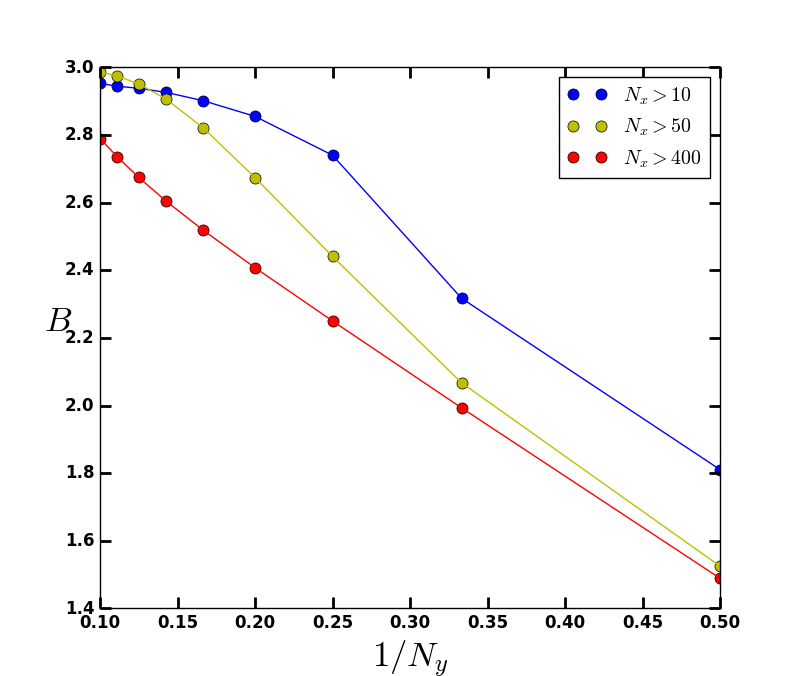
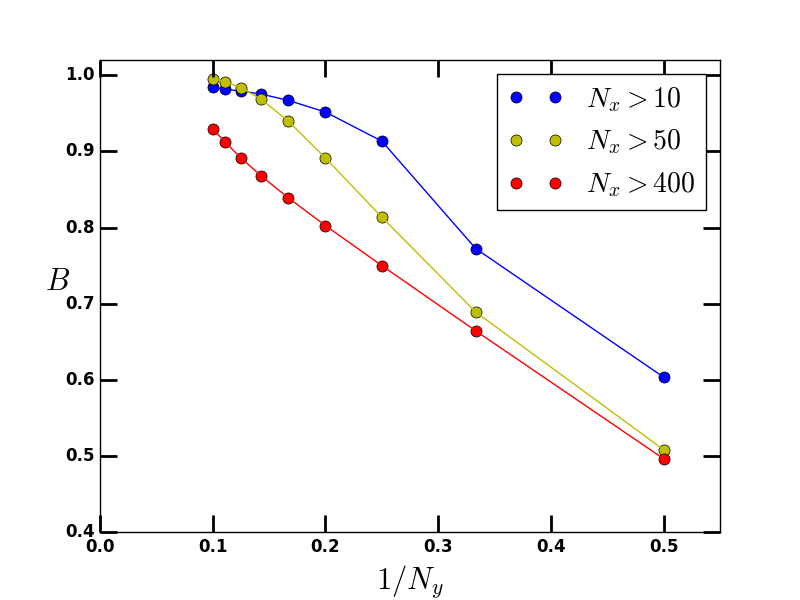
formatting figures

diff --git a/data/analysis/extra.py b/data/analysis/extra.py
@@ -18,35 +18,32 @@ x1=[]
 x2=[]
 x3=[]
 for line in data:
-  a.append(line[[1]]*3)
-  b.append(line[[2]]*3)
-  c.append(line[[3]]*3)
+  a.append(line[[1]])
+  b.append(line[[2]])
+  c.append(line[[3]])
   x1.append(1.0/line[0]**2)
   x2.append(1.0/line[0])
   x3.append(line[0]**2)
 pl.figure(1)
 pl.plot(x1,a,'ob',markersize=8,label="$N_x>10$")
 pl.plot(x1,a,'-b',markersize=8)
-pl.xlabel('$1/N_y^2$',fontsize=25)
-h=pl.ylabel('$A$',fontsize=25)
+pl.xlabel('$1/N_y^2$',fontsize=22)
+h=pl.ylabel('$A$',fontsize=22)
 h.set_rotation(0)
-pl.legend(loc='best')
 
 pl.figure(2)
 pl.plot(x2,b,'ob',markersize=8,label="$N_x>10$")
 pl.plot(x2,b,'-b',markersize=8)
-pl.xlabel('$1/N_y$',fontsize=25)
-h=pl.ylabel('$B$',fontsize=25)
+pl.xlabel('$1/N_y$',fontsize=22)
+h=pl.ylabel('$B$',fontsize=22)
 h.set_rotation(0)
-pl.legend(loc='best')
 
 pl.figure(3)
 pl.plot(x3,c,'ob',markersize=8,label="$N_x>10$")
 pl.plot(x3,c,'-b',markersize=8)
-pl.xlabel('$N_y^2$',fontsize=25)
-h=pl.ylabel('$C$',fontsize=25)
+pl.xlabel('$N_y^2$',fontsize=22)
+h=pl.ylabel('$C$',fontsize=22)
 h.set_rotation(0)
-pl.legend(loc='best')
 #########################################50
 data=pl.loadtxt('ABC50.dat')
 a=[]
@@ -56,21 +53,18 @@ x1=[]
 x2=[]
 x3=[]
 for line in data:
-  a.append(line[[1]]*3)
-  b.append(line[[2]]*3)
-  c.append(line[[3]]*3)
+  a.append(line[[1]])
+  b.append(line[[2]])
+  c.append(line[[3]])
   x1.append(1.0/line[0]**2)
   x2.append(1.0/line[0])
   x3.append(line[0]**2)
 pl.figure(1)
 pl.plot(x1,a,'oy',markersize=8,label="$N_x>50$")
 pl.plot(x1,a,'-y',markersize=8)
-pl.legend(loc='best')
-
 ax = plt.gca()
 # Customize tick marks
-ax.tick_params(which='both',width=2,length=8) # setting length and width of tick marks
-
+ax.tick_params(which='both',width=2,length=12) # setting length and width of tick marks
 # Customize tick labels
 for idx, tick in enumerate(ax.xaxis.get_major_ticks()):
     tick.label1.set_fontsize(12)
@@ -80,16 +74,13 @@ for tick in ax.yaxis.get_major_ticks():
     tick.label1.set_fontsize(12)
     tick.label1.set_fontweight('bold')
 
-pl.legend(loc='best',fontsize=24)
 
 pl.figure(2)
 pl.plot(x2,b,'oy',markersize=8,label="$N_x>50$")
 pl.plot(x2,b,'-y',markersize=8)
-pl.legend(loc='best')
-
 ax = plt.gca()
 # Customize tick marks
-ax.tick_params(which='both',width=2,length=8) # setting length and width of tick marks
+ax.tick_params(which='both',width=2,length=12) # setting length and width of tick marks
 
 # Customize tick labels
 for idx, tick in enumerate(ax.xaxis.get_major_ticks()):
@@ -103,12 +94,9 @@ for tick in ax.yaxis.get_major_ticks():
 pl.figure(3)
 pl.plot(x3,c,'oy',markersize=8,label="$N_x>50$")
 pl.plot(x3,c,'-y',markersize=8)
-pl.legend(loc='best',fontsize=24)
-
 ax = plt.gca()
 # Customize tick marks
-ax.tick_params(which='both',width=2,length=8) # setting length and width of tick marks
-
+ax.tick_params(which='both',width=2,length=12) # setting length and width of tick marks
 # Customize tick labels
 for idx, tick in enumerate(ax.xaxis.get_major_ticks()):
     tick.label1.set_fontsize(12)
@@ -118,7 +106,6 @@ for tick in ax.yaxis.get_major_ticks():
     tick.label1.set_fontsize(12)
     tick.label1.set_fontweight('bold')
 
-pl.legend(loc='best',fontsize=24)
 ########################################400
 data=pl.loadtxt('ABC400.dat')
 a=[]
@@ -128,26 +115,31 @@ x1=[]
 x2=[]
 x3=[]
 for line in data:
-  a.append(line[[1]]*3)
-  b.append(line[[2]]*3)
-  c.append(line[[3]]*3)
+  a.append(line[[1]])
+  b.append(line[[2]])
+  c.append(line[[3]])
   x1.append(1.0/line[0]**2)
   x2.append(1.0/line[0])
   x3.append(line[0]**2)
 pl.figure(1)
 pl.plot(x1,a,'or',markersize=8,label="$N_x>400$")
 pl.plot(x1,a,'-r',markersize=8)
-pl.legend(loc='best')
+pl.xlim([0.0,0.26])
+pl.legend(loc='best',fontsize=20)
 
 pl.figure(2)
 pl.plot(x2,b,'or',markersize=8,label="$N_x>400$")
 pl.plot(x2,b,'-r',markersize=8)
-pl.legend(loc='best')
+pl.xlim([0.00,0.55])
+pl.ylim([0.4,1.02])
+pl.legend(loc='best',fontsize=20)
 
 pl.figure(3)
 pl.plot(x3,c,'or',markersize=8,label="$N_x>400$")
 pl.plot(x3,c,'-r',markersize=8)
-pl.legend(loc='best')
+pl.xlim([0,105])
+pl.ylim([-0.8,0.02])
+pl.legend(loc='best',fontsize=20)
 
 '''
 ########################################800
@@ -159,9 +151,9 @@ x1=[]
 x2=[]
 x3=[]
 for line in data:
-  a.append(line[[1,2,3]]*3)
-  b.append(line[[1,2,3]]*3)
-  c.append(line[[1,2,3]]*3)
+  a.append(line[[1,2,3]])
+  b.append(line[[1,2,3]])
+  c.append(line[[1,2,3]])
   x1.append(1.0/line[0]**2)
   x2.append(1.0/line[0])
   x3.append(line[0]**2)
@@ -185,9 +177,9 @@ x1=[]
 x2=[]
 x3=[]
 for line in data:
-  a.append(line[[1,2,3]]*3)
-  b.append(line[[1,2,3]]*3)
-  c.append(line[[1,2,3]]*3)
+  a.append(line[[1,2,3]])
+  b.append(line[[1,2,3]])
+  c.append(line[[1,2,3]])
   x1.append(1.0/line[0]**2)
   x2.append(1.0/line[0])
   x3.append(line[0]**2)
